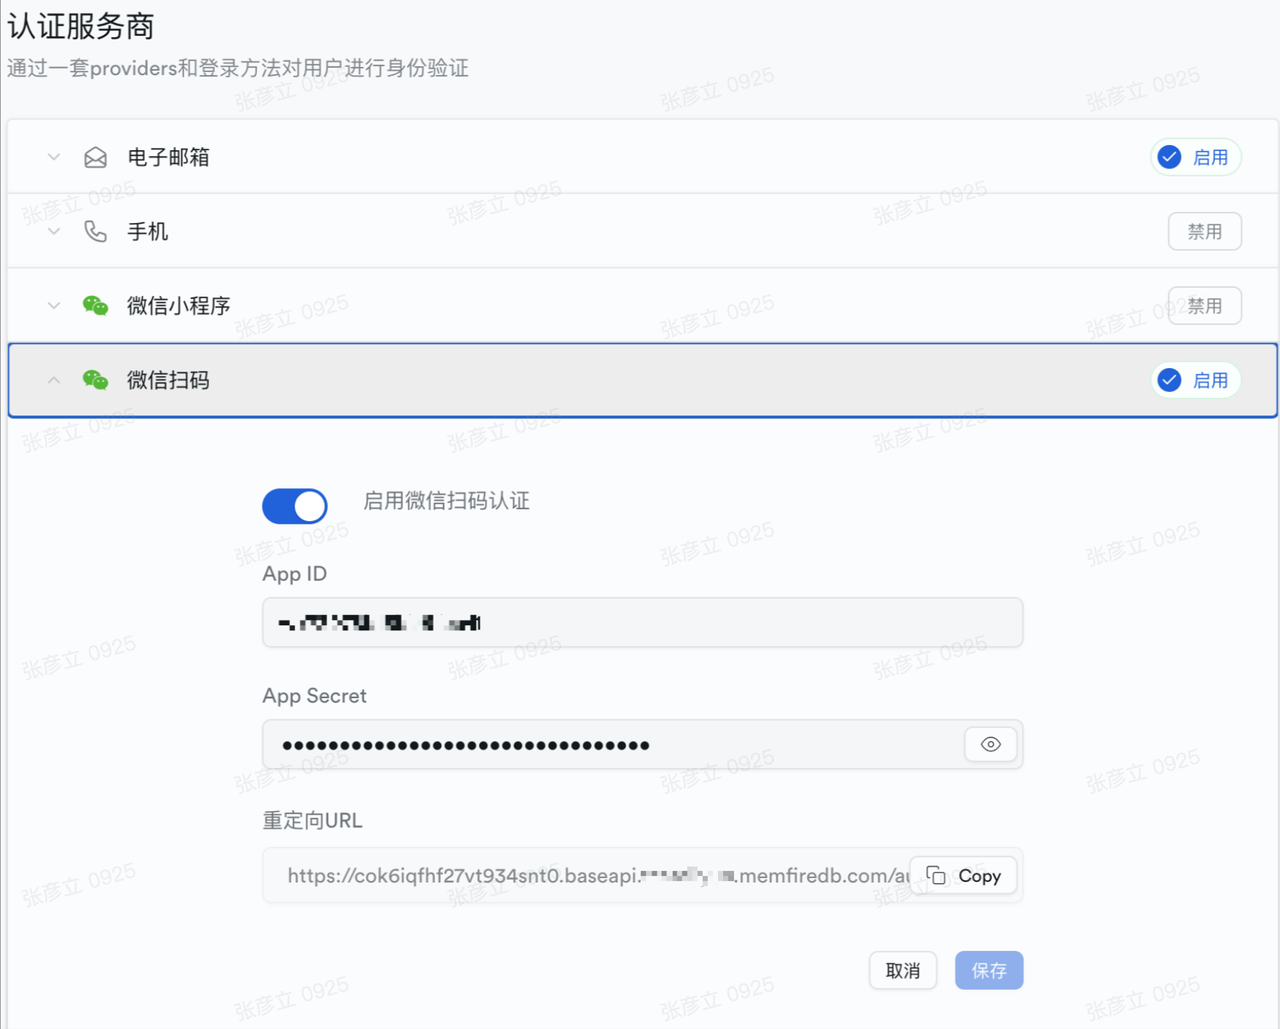
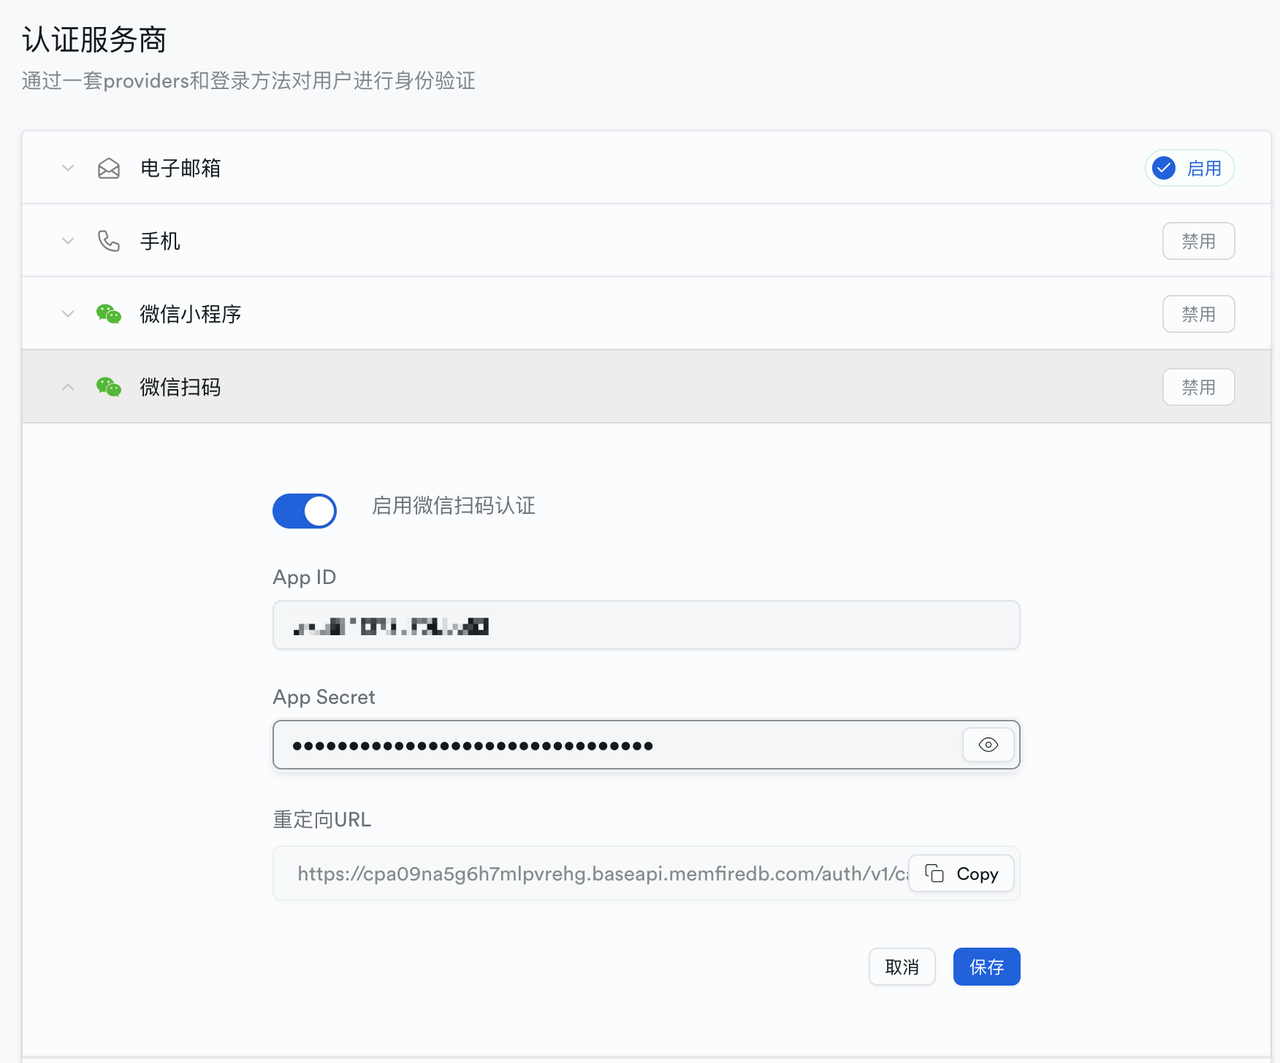
扫码文档修改

diff --git a/content/docs/app/development_guide/auth/authentication/wechatQRAuth.md b/content/docs/app/development_guide/auth/authentication/wechatQRAuth.md
@@ -38,7 +38,7 @@
 #### 3、在微信开放平台上对审核通过的网站应用配置其授权回调域
 
 {{% alert context="info" %}}
-在微信开放平台，进入到第1步审核通过的“网站应用”中进行“授权回调域”的配置，配置的值为上一步中微信扫码认证服务商的重定向URL的cok6iqfhf27vt934snt0.baseapi.memfiredb.com这一部分。此处注意，不要在“授权回调域”的前面加上“https://”，也不需要在其之后加上具体的路径。
+在微信开放平台，进入到第1步审核通过的“网站应用”中进行“授权回调域”的配置，配置的值为上一步中微信扫码认证服务商的重定向URL的cpa09na5g6h7mlpvrehg.baseapi.memfiredb.com这一部分。此处注意，不要在“授权回调域”的前面加上“https://”，也不需要在其之后加上具体的路径。
 {{% /alert %}}
 
    正确填写格式如下：
